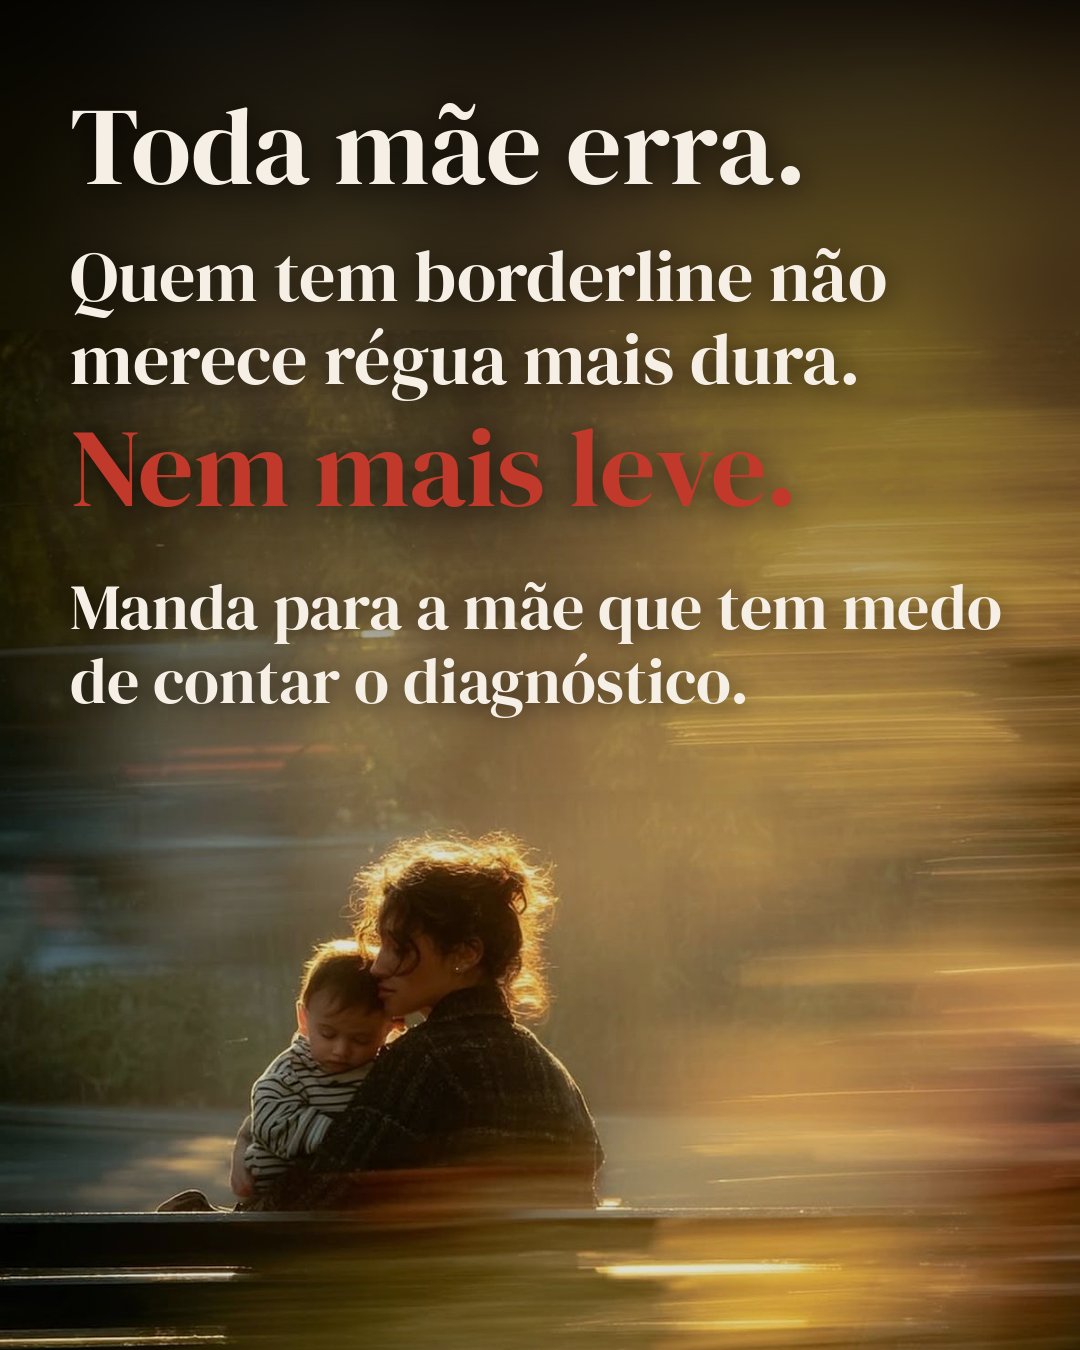
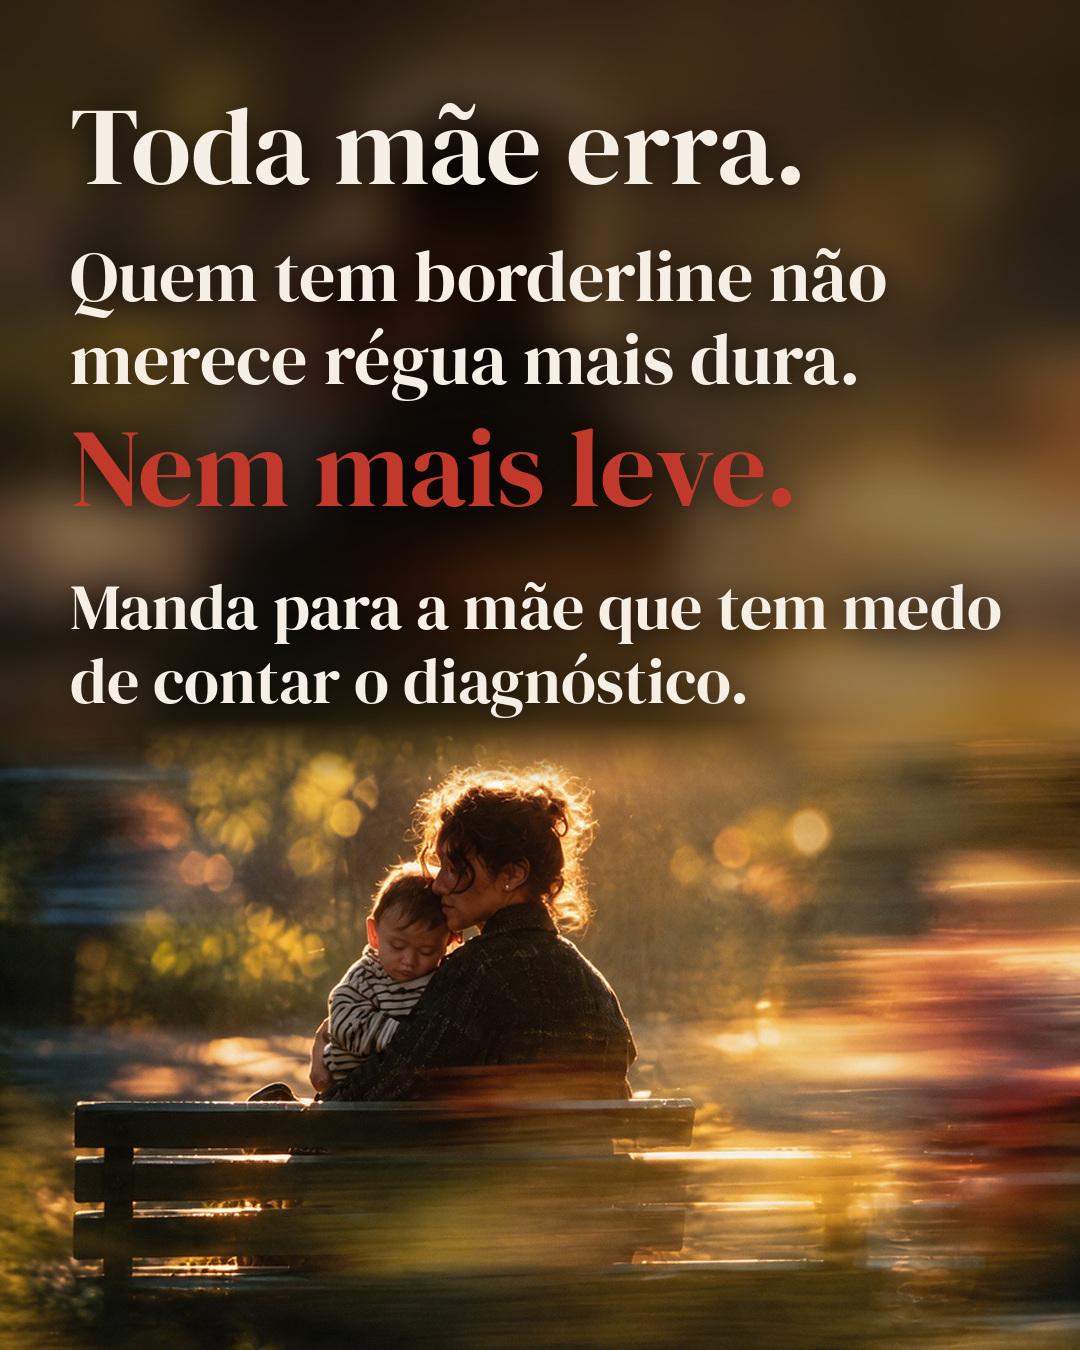
Carrossel mãe borderline: fundos mais claros em 03, 05, 06 e recorte da capa no 07
Claude-Session: https://claude.ai/code/session_01Y1aNYrQAZE6rQhxearLeeb

diff --git a/carrosseis/mae-borderline-regua/gerar.py b/carrosseis/mae-borderline-regua/gerar.py
@@ -40,15 +40,24 @@ def capa_baixo():
     return cover(im.crop((0, int(im.height * .4), im.width, im.height)))
 
 def bg_blur():
-    return darken(capa_baixo().filter(ImageFilter.GaussianBlur(35)), .5)
+    return darken(capa_baixo().filter(ImageFilter.GaussianBlur(25)), .3)
 
 def bg_07():
-    # capa sem título: foto inteira, descida para mãe e filho caírem no terço de baixo
-    im = cover(Image.open(CAPA).convert('RGB'))
-    desce = 330
-    topo = im.crop((0, 0, W, desce)).transpose(Image.FLIP_TOP_BOTTOM).filter(ImageFilter.GaussianBlur(30))
-    novo = Image.new('RGB', (W, H)); novo.paste(im, (0, desce)); novo.paste(topo, (0, 0))
-    return top_gradient(darken(novo, .12), .88, .66)
+    # fundo: o mesmo recorte da capa (de 40% para baixo), desfocado e escurecido no topo para o texto.
+    # sobre ele, o recorte nítido em largura total, posto no terço de baixo com a borda de cima esfumada,
+    # para mãe, filho e banco ficarem inteiros e longe das bordas.
+    src = Image.open(CAPA).convert('RGB')
+    crop = src.crop((0, int(src.height * .4), src.width, src.height))
+    sc = W / crop.width
+    nit = crop.resize((W, round(crop.height * sc)), Image.LANCZOS)
+    y = 720                                       # onde começa o recorte nítido
+    fundo = darken(capa_baixo().filter(ImageFilter.GaussianBlur(25)), .3)
+    mask = Image.new('L', nit.size, 255); pm = mask.load()
+    fade = 60
+    for yy in range(fade):
+        for xx in range(W): pm[xx, yy] = int(255 * yy / fade)
+    fundo.paste(nit, (0, y), mask)
+    return top_gradient(fundo, .6, .58)
 
 
 def spans(line):
